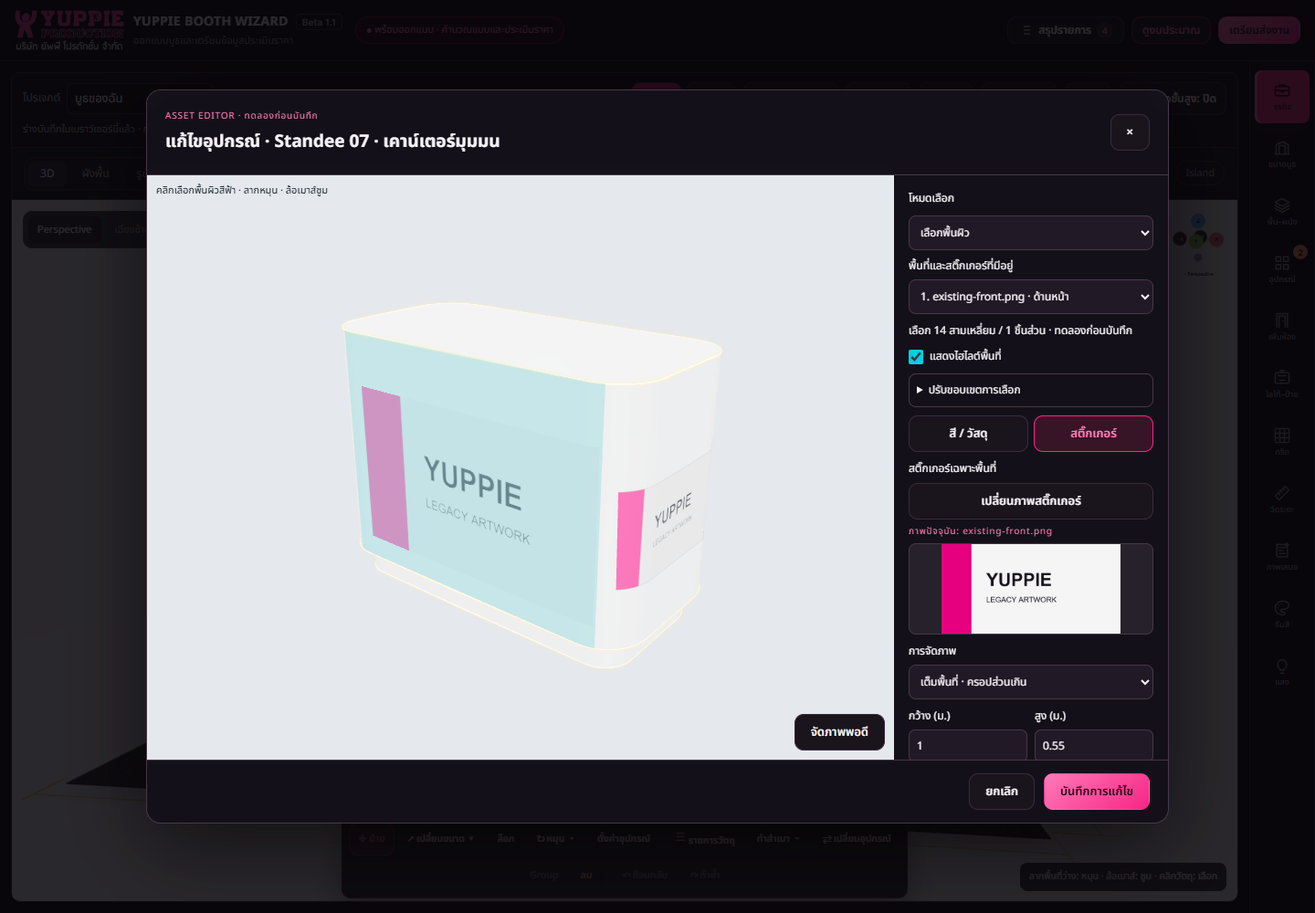
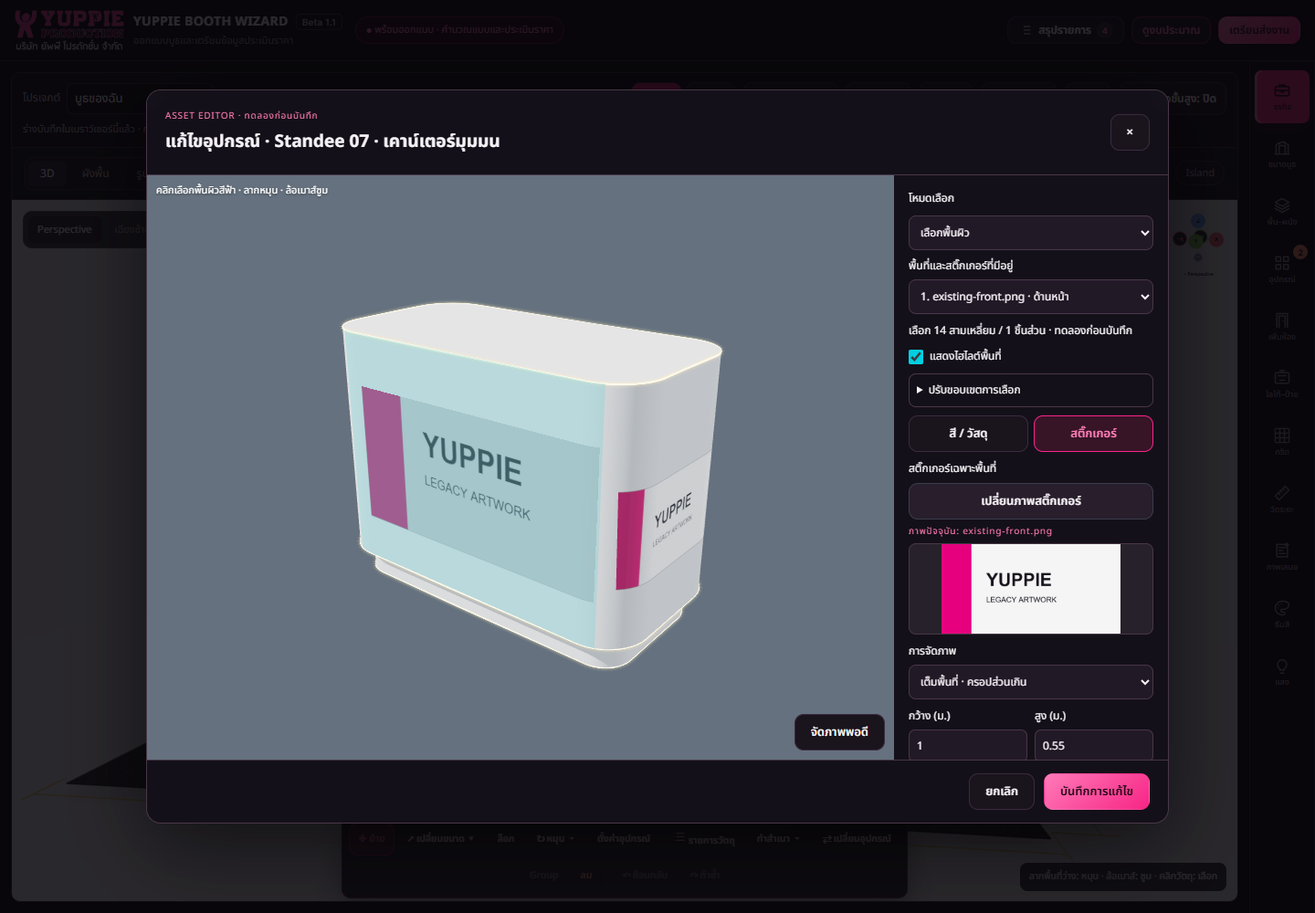
แก้บั๊ก สติ๊กเกอร์เคานืเตอร์

diff --git a/public/yp-web-ai/js/asset-surfaces.js b/public/yp-web-ai/js/asset-surfaces.js
@@ -94,7 +94,7 @@
  }
  function createEditor({renderer,root,parts,object,dialog,canvas,onMode,onPick,initialSurfaces}){
   const T=renderer.THREE,box=document.createElement('section');box.className='asset-surface-tools';
-  box.innerHTML='<label for="assetPickMode">โหมดเลือก</label><select id="assetPickMode"><option value="part">เลือกชิ้นส่วน</option><option value="surface">เลือกพื้นผิว</option></select><div data-surface-controls hidden><label>ขอบเขตที่เลือก<select id="assetSurfaceRegion"><option value="plane">ผิวราบที่ต่อกัน</option><option value="smooth">ผิวโค้งต่อเนื่อง · หยุดที่มุมหัก</option><option value="triangle">สามเหลี่ยมเดียว · เก็บรายละเอียด</option></select></label><label><input type="checkbox" id="assetSurfaceAdd"> เพิ่ม / ถอนพื้นที่จากที่เลือก</label><p data-surface-info role="status">คลิกพื้นผิวบนภาพ 3D · สีฟ้าคือพื้นที่ที่เลือก</p><button class="btn sm" data-surface-clear type="button">ล้างการเลือก</button><label>สีเฉพาะพื้นที่<select id="assetSurfaceMode"><option value="inherit">ตามชิ้นส่วนเดิม</option><option value="original">วัสดุต้นฉบับ</option><option value="solid">สีล้วน</option><option value="tint">ย้อมสี</option></select></label><input id="assetPatchColor" type="color" value="#ffffff" aria-label="สีพื้นที่ที่เลือก"><label>วัสดุเฉพาะพื้นที่<select id="assetSurfaceFinish"><option value="original">ตามวัสดุเดิม</option><option value="matte">ผิวด้าน</option><option value="gloss">ผิวมัน</option><option value="metal">โลหะ</option></select></label><label>สติ๊กเกอร์เฉพาะพื้นที่<input type="file" id="assetSurfaceImage" accept="image/png,image/jpeg,image/webp"></label><label>การจัดภาพ<select id="assetSurfaceFit"><option value="single">เต็มภาพ · ไม่ตัดภาพ</option><option value="cover">เต็มพื้นที่ · ครอปส่วนเกิน</option><option value="repeat">ลายซ้ำ</option></select></label><div class="surface-number-grid">'+[['w','กว้าง (ม.)'],['h','สูง (ม.)'],['offsetX','เลื่อนแนวนอน (ม.)'],['offsetY','เลื่อนแนวตั้ง (ม.)'],['patternSize','ขนาดลายซ้ำ (ม.)']].map(([k,label])=>'<label>'+label+'<input type="number" data-surface-number="'+k+'" step="0.01" placeholder="อัตโนมัติ" min="'+(k.startsWith('offset')?'-30':'0.01')+'" max="30"></label>').join('')+'</div><button type="button" class="btn sm" data-surface-rotate>หมุนภาพ 90°</button><button type="button" class="btn sm" data-surface-remove-image>ลบภาพเฉพาะพื้นที่</button><button type="button" class="btn sm" data-surface-reset>คืนการตั้งค่าพื้นที่ที่เลือก</button><label><input type="checkbox" data-surface-highlight checked> แสดงไฮไลต์พื้นที่</label><p class="note">ทดลองก่อนบันทึก · ผิวโค้งใช้การฉายภาพ อาจยืดบริเวณโค้ง · ไม่แก้ไฟล์ต้นฉบับ</p></div>';
+  box.innerHTML='<label for="assetPickMode">โหมดเลือก</label><select id="assetPickMode"><option value="part">เลือกชิ้นส่วน</option><option value="surface">เลือกพื้นผิว</option></select><div data-surface-controls hidden><label>ขอบเขตที่เลือก<select id="assetSurfaceRegion"><option value="plane">ผิวราบที่ต่อกัน</option><option value="smooth">ผิวโค้งต่อเนื่อง · หยุดที่มุมหัก</option><option value="triangle">สามเหลี่ยมเดียว · เก็บรายละเอียด</option></select></label><label><input type="checkbox" id="assetSurfaceAdd"> เพิ่ม / ถอนพื้นที่จากที่เลือก</label><p data-surface-info role="status">คลิกพื้นผิวบนภาพ 3D · สีฟ้าคือพื้นที่ที่เลือก</p><button class="btn sm" data-surface-clear type="button">ล้างการเลือก</button><label>สีเฉพาะพื้นที่<select id="assetSurfaceMode"><option value="inherit">ตามชิ้นส่วนเดิม</option><option value="original">วัสดุต้นฉบับ</option><option value="solid">สีล้วน</option><option value="tint">ย้อมสี</option></select></label><input id="assetPatchColor" type="color" value="#ffffff" aria-label="สีพื้นที่ที่เลือก"><label>วัสดุเฉพาะพื้นที่<select id="assetSurfaceFinish"><option value="original">ตามวัสดุเดิม</option><option value="matte">ผิวด้าน</option><option value="gloss">ผิวมัน</option><option value="metal">โลหะ</option></select></label><label>สติ๊กเกอร์เฉพาะพื้นที่<input type="file" id="assetSurfaceImage" accept="image/png,image/jpeg,image/webp"></label><label>การจัดภาพ<select id="assetSurfaceFit"><option value="single">เต็มภาพ · ไม่ตัดภาพ</option><option value="cover">เต็มพื้นที่ · ครอปส่วนเกิน</option><option value="repeat">ลายซ้ำ</option></select></label><div class="surface-number-grid">'+[['w','กว้าง (ม.)'],['h','สูง (ม.)'],['offsetX','แนวนอน − ซ้าย / + ขวา (ม.)'],['offsetY','แนวตั้ง − ลง / + ขึ้น (ม.)'],['patternSize','ขนาดลายซ้ำ (ม.)']].map(([k,label])=>'<label>'+label+'<input type="number" data-surface-number="'+k+'" step="0.01" placeholder="อัตโนมัติ" min="'+(k.startsWith('offset')?'-30':'0.01')+'" max="30"></label>').join('')+'</div><button type="button" class="btn sm" data-surface-rotate>หมุนภาพ 90°</button><button type="button" class="btn sm" data-surface-remove-image>ลบภาพเฉพาะพื้นที่</button><button type="button" class="btn sm" data-surface-reset>คืนการตั้งค่าพื้นที่ที่เลือก</button><label><input type="checkbox" data-surface-highlight checked> แสดงไฮไลต์พื้นที่</label><p class="note">ทดลองก่อนบันทึก · ผิวโค้งใช้การฉายภาพ อาจยืดบริเวณโค้ง · ไม่แก้ไฟล์ต้นฉบับ</p></div>';
   dialog.querySelector('[data-part-info]').before(box);const $=s=>box.querySelector(s),info=$('[data-surface-info]'),selection=new Map();let draft=sanitize(initialSurfaces||object.appearance.surfaces),highlights=[],alive=true,pending=false,activePatch=-1,activeBatch=[];
   const controls=$('[data-surface-controls]'),pick=$('#assetPickMode'),imageName=document.createElement('small');$('#assetSurfaceImage').after(imageName);
   const editing=()=>pick.value==='surface',imageSettings=()=>({...global.YPAssetFaceStickers.clean(settings.sticker||{}),...(settings.sticker?.projectionFace?{projectionFace:settings.sticker.projectionFace}:{})});let settings={mode:'inherit',color:'#ffffff',finish:'original'};
@@ -113,7 +113,7 @@
   function showSelection(){removeHighlights();let count=0;for(const [key,ids] of selection){count+=ids.size;if(!$('[data-surface-highlight]').checked||!editing())continue;const e=parts.find(p=>p.key===key),g=subset(T,e,[...ids]);if(!g)continue;const m=new T.Mesh(g,new T.MeshBasicMaterial({color:0x00cfe0,transparent:true,opacity:.3,side:T.DoubleSide,depthWrite:false,polygonOffset:true,polygonOffsetFactor:-6,polygonOffsetUnits:-6}));m.userData.systemHelper=true;m.raycast=()=>{};m.renderOrder=8;e.node.add(m);highlights.push(m);}info.textContent=count?'เลือก '+count+' สามเหลี่ยม / '+selection.size+' ชิ้นส่วน · ทดลองก่อนบันทึก':'คลิกพื้นผิวบนภาพ 3D · สีฟ้าคือพื้นที่ที่เลือก';
    pick.disabled=pending;controls.querySelectorAll('select,input,button').forEach(el=>{if(['assetSurfaceRegion','assetSurfaceAdd','assetSavedSurfaces'].includes(el.id)||el.hasAttribute('data-surface-clear')||el.hasAttribute('data-surface-highlight')||el.hasAttribute('data-surface-tab')){el.disabled=pending;return;}el.disabled=!count||pending;});
   }
-  function syncFields(){savedList.replaceChildren(new Option('คลิกบนอุปกรณ์ หรือเลือกพื้นที่ที่บันทึกไว้',''));draft.forEach((p,i)=>savedList.add(new Option((i+1)+'. '+(p.sticker?.name||'สี / วัสดุ')+(p.sticker?.projectionFace?' · ด้าน'+global.YPAssetFaceStickers.faces[p.sticker.projectionFace].label:''),String(i))));savedList.value=activePatch>=0?String(activePatch):'';$('#assetSurfaceMode').value=settings.mode;$('#assetPatchColor').value=settings.color;$('#assetSurfaceFinish').value=settings.finish;const s=imageSettings();uploadButton.textContent=s.data?'เปลี่ยนภาพสติ๊กเกอร์':'อัปโหลดภาพสติ๊กเกอร์';preview.hidden=!s.data;if(s.data)preview.src=s.data;else preview.removeAttribute('src');imageName.textContent=s.data?'ภาพปัจจุบัน: '+(s.name||'สติ๊กเกอร์'):'พื้นที่นี้ยังไม่มีสติ๊กเกอร์';$('#assetSurfaceFit').value=s.mode;box.querySelectorAll('[data-surface-number]').forEach(el=>{el.value=s[el.dataset.surfaceNumber]??'';if(el.dataset.surfaceNumber==='patternSize')el.parentElement.hidden=s.mode!=='repeat';});showSelection();}
+  function syncFields(){savedList.replaceChildren(new Option('คลิกบนอุปกรณ์ หรือเลือกพื้นที่ที่บันทึกไว้',''));draft.forEach((p,i)=>savedList.add(new Option((i+1)+'. '+(p.sticker?.name||'สี / วัสดุ')+(p.sticker?.projectionFace?' · ด้าน'+global.YPAssetFaceStickers.faces[p.sticker.projectionFace].label:''),String(i))));savedList.value=activePatch>=0?String(activePatch):'';$('#assetSurfaceMode').value=settings.mode;$('#assetPatchColor').value=settings.color;$('#assetSurfaceFinish').value=settings.finish;const s=imageSettings();uploadButton.textContent=s.data?'เปลี่ยนภาพสติ๊กเกอร์':'อัปโหลดภาพสติ๊กเกอร์';preview.hidden=!s.data;if(s.data)preview.src=s.data;else preview.removeAttribute('src');imageName.textContent=s.data?'ภาพปัจจุบัน: '+(s.name||'สติ๊กเกอร์'):'พื้นที่นี้ยังไม่มีสติ๊กเกอร์';$('#assetSurfaceFit').value=s.mode;box.querySelectorAll('[data-surface-number]').forEach(el=>{el.value=global.YPAssetFaceStickers.uiOffset(el.dataset.surfaceNumber,s[el.dataset.surfaceNumber])??'';if(el.dataset.surfaceNumber==='patternSize')el.parentElement.hidden=s.mode!=='repeat';});showSelection();}
   function refresh(){removeHighlights();apply(renderer,root,parts,draft);showSelection();}
   function commitSelection(reset=false){
    if(!selection.size)return;if(activeBatch.length){if(reset){for(const index of [...activeBatch].sort((a,b)=>b-a))draft.splice(index,1);activePatch=-1;activeBatch=[];}else for(const index of activeBatch){const current=draft[index];draft[index]={...structuredClone(settings),key:current.key,triangles:current.triangles};}}
@@ -121,7 +121,7 @@
   }
   pick.onchange=()=>{controls.hidden=!editing();onMode(editing(),pick.value);canvas.style.cursor=editing()?global.YPAssetGlowPath.selectionCursor:'';showSelection();};
   $('#assetSurfaceMode').onchange=e=>{settings.mode=e.target.value;commitSelection();};$('#assetPatchColor').oninput=e=>{settings.color=e.target.value;if(['inherit','original'].includes(settings.mode))settings.mode='solid';commitSelection();};$('#assetSurfaceFinish').onchange=e=>{settings.finish=e.target.value;commitSelection();};
-  $('#assetSurfaceFit').onchange=e=>{settings.sticker={...imageSettings(),mode:e.target.value};commitSelection();};box.querySelectorAll('[data-surface-number]').forEach(el=>el.onchange=()=>{settings.sticker={...imageSettings(),[el.dataset.surfaceNumber]:el.value===''?null:Number(el.value)};commitSelection();});
+  $('#assetSurfaceFit').onchange=e=>{settings.sticker={...imageSettings(),mode:e.target.value};commitSelection();};box.querySelectorAll('[data-surface-number]').forEach(el=>el.onchange=()=>{settings.sticker={...imageSettings(),[el.dataset.surfaceNumber]:el.value===''?null:global.YPAssetFaceStickers.uiOffset(el.dataset.surfaceNumber,Number(el.value))};commitSelection();});
   $('[data-surface-rotate]').onclick=()=>{const s=imageSettings();settings.sticker={...s,rotation:(s.rotation+90)%360};commitSelection();};
   $('[data-surface-remove-image]').onclick=()=>{delete settings.sticker;commitSelection();};$('[data-surface-reset]').onclick=()=>{settings={mode:'inherit',color:'#ffffff',finish:'original'};commitSelection(true);};
   $('[data-surface-clear]').onclick=()=>{selection.clear();activePatch=-1;activeBatch=[];syncFields();};$('[data-surface-highlight]').onchange=showSelection;

diff --git a/public/yp-web-ai/index.html b/public/yp-web-ai/index.html
@@ -1794,10 +1794,10 @@ select:focus{border-color:var(--acc)}
 <link rel="stylesheet" href="css/asset-parts.css?v=20260918-studio-2">
 <script src="js/asset-edge-glow.js?v=20260918-path-3"></script>
 <script src="js/asset-glow-path.js?v=20260918-red-cursor-2"></script>
-<script src="js/asset-surfaces.js?v=20260918-unified-1"></script>
+<script src="js/asset-surfaces.js?v=20260918-offset-up-1"></script>
 <script src="js/asset-parts.js?v=20260918-studio-2"></script>
 <script src="js/asset-surface-repair.js?v=20260918-1"></script>
-<script src="js/asset-face-stickers.js?v=20260918-surfaces-1"></script>
+<script src="js/asset-face-stickers.js?v=20260918-offset-up-1"></script>
 <script src="js/my-asset-preview.js?v=20260918-surface1"></script>
 <script src="js/quick-setup.js?v=20260911-business"></script>
 <script src="js/business-brief.js?v=20260911-1"></script>
@@ -4795,7 +4795,7 @@ function boothGeometryPrompt(){
     const widthM=Math.min(wallFaceLength(S,face),Math.max(.1,promptSafeNumber(sticker.w))),heightM=Math.min(height,Math.max(.1,promptSafeNumber(sticker.h)));
     const horizontal=face==='back'?'กึ่งกลางแนวผนัง/แกน X':'กึ่งกลางแนวลึก/แกน Z';
     const display=sticker.mode==='repeat'?'ต่อลายโดยรักษาสัดส่วนเดิม · ขนาดลาย '+promptNumber(sticker.patternSize)+' ม.':sticker.mode==='cover'?'เต็มพื้นที่แบบรักษาสัดส่วนและตัดส่วนเกิน':'ภาพเดียวแบบรักษาสัดส่วน';
-    return'- สติ๊กเกอร์'+name+' ชื่อ '+(sticker.name||'ไฟล์กราฟิก')+': ขนาด '+promptNumber(widthM)+' × '+promptNumber(heightM)+' ม. · '+display+' · เลื่อนแนวนอน '+promptNumber(sticker.offsetX)+' ม. / แนวตั้ง '+promptNumber(sticker.offsetY)+' ม. · หมุนภาพ '+Number(sticker.rotation||0)+'° · วาง'+horizontal+'และกึ่งกลางแนวสูง Y · '+(face==='back'&&curve?'แนบโค้งตามผนัง R โดยรักษาความยาวภาพตามแนวโค้ง':'แนบระนาบเดียวกับผิวผนัง')+' · ห้ามบิดหรือยืดสัดส่วนภาพ และห้ามย้ายกรอบพื้นที่ติด';
+    return'- สติ๊กเกอร์'+name+' ชื่อ '+(sticker.name||'ไฟล์กราฟิก')+': ขนาด '+promptNumber(widthM)+' × '+promptNumber(heightM)+' ม. · '+display+' · เลื่อนแนวนอน '+promptNumber(sticker.offsetX)+' ม. / แนวตั้ง '+promptNumber(-Number(sticker.offsetY||0))+' ม. · หมุนภาพ '+Number(sticker.rotation||0)+'° · วาง'+horizontal+'และกึ่งกลางแนวสูง Y · '+(face==='back'&&curve?'แนบโค้งตามผนัง R โดยรักษาความยาวภาพตามแนวโค้ง':'แนบระนาบเดียวกับผิวผนัง')+' · ห้ามบิดหรือยืดสัดส่วนภาพ และห้ามย้ายกรอบพื้นที่ติด';
   });
   const floorLabel=(()=>{try{return floorName();}catch(e){return S.floor||'พื้นตามแบบ';}})();
   const activeCarpetUpload=activeCarpetTexture(S);
@@ -5880,11 +5880,12 @@ function appendStickerDisplayControls(card,values,commit,limits={}){
   const modes=el('div','sticker-mode-grid');STICKER_MODES.forEach(mode=>{const button=el('button','btn sm'+(values.mode===mode.k?' on':''),mode.n);button.type='button';
     button.onclick=()=>{commit('mode',mode.k,true);sync();};modes.appendChild(button);});card.appendChild(modes);
   const controls=el('div','floor-sticker-size'),maxX=Math.max(.1,Number(limits.x)||1),maxY=Math.max(.1,Number(limits.y)||1);
-  const live=(key,value)=>{commit(key,Number(value),true);if(threeRenderer)threeRenderer.currentKey='';render();updatePromptPreview();};
+  const storedValue=(key,value)=>key==='offsetY'&&limits.yUp?-(Number(value)||0):Number(value);
+  const live=(key,value)=>{commit(key,storedValue(key,value),true);if(threeRenderer)threeRenderer.currentKey='';render();updatePromptPreview();};
   const row=(key,label,min,max,step)=>{const wrap=el('div','floor-sticker-control'),lab=el('label',null,label),range=document.createElement('input'),number=document.createElement('input'),resetDefault=key==='patternSize'?1.2:0;
-    range.type='range';range.min=String(min);range.max=String(max);range.step=String(step);range.value=values[key];range.setAttribute('aria-label',label);
-    number.type='number';number.min=String(min);number.max=String(max);number.step=String(step);number.inputMode='decimal';number.value=Number(values[key]).toFixed(2);number.dataset.resetDefault=String(resetDefault);number.setAttribute('aria-label','ค่า'+label);
-    range.oninput=()=>{number.value=Number(range.value).toFixed(2);live(key,range.value);};range.onchange=()=>sync();number.onchange=()=>{commit(key,Number(number.value),true);sync();};
+    range.type='range';range.min=String(min);range.max=String(max);range.step=String(step);range.value=storedValue(key,values[key]);range.setAttribute('aria-label',label);
+    number.type='number';number.min=String(min);number.max=String(max);number.step=String(step);number.inputMode='decimal';number.value=storedValue(key,values[key]).toFixed(2);number.dataset.resetDefault=String(resetDefault);number.setAttribute('aria-label','ค่า'+label);
+    range.oninput=()=>{number.value=Number(range.value).toFixed(2);live(key,range.value);};range.onchange=()=>sync();number.onchange=()=>{commit(key,storedValue(key,number.value),true);sync();};
     wrap.append(lab,range,number,el('em',null,'ม.'));return wrap;};
   if(values.mode==='repeat')controls.appendChild(row('patternSize','ขนาดลาย',.1,Math.max(maxX,maxY)*2,.05));
   controls.append(row('offsetX',limits.xLabel||'เลื่อนแนวนอน',-maxX/2,maxX/2,.05),row('offsetY',limits.yLabel||'เลื่อนแนวตั้ง',-maxY/2,maxY/2,.05));
@@ -6051,7 +6052,7 @@ function buildWallStickerSettings(){
       sizeBox.append(makeControl('w','ความยาว',wallFaceLength(S,face)),makeControl('h','ความสูง',S.H));card.appendChild(sizeBox);
       appendStickerDisplayControls(card,{mode:sticker.mode,patternSize:sticker.patternSize,offsetX:sticker.offsetX,offsetY:sticker.offsetY},
         (key,value,touch)=>{const target=wallStickerFor(face);target[key]=value;if(touch)target.id=(target.id||0)+1;},
-        {x:sticker.w,y:sticker.h,xLabel:'เลื่อนแนวนอน',yLabel:'เลื่อนแนวตั้ง'});
+        {x:sticker.w,y:sticker.h,yUp:true,xLabel:'แนวนอน − ซ้าย / + ขวา',yLabel:'แนวตั้ง − ลง / + ขึ้น'});
       card.appendChild(el('div','lbl','หมุนภาพ'));
       const rotate=el('div','floor-sticker-rotate');[0,90,180,270].forEach(degree=>{const button=el('button','btn sm'+(Number(sticker.rotation||0)===degree?' on':''),degree+'°');button.type='button';
         button.onclick=()=>{setWallStickerRotation(face,degree);wallStickerFor(face).id++;sync();};rotate.appendChild(button);});card.appendChild(rotate);

diff --git a/public/yp-web-ai/js/asset-face-stickers.js b/public/yp-web-ai/js/asset-face-stickers.js
@@ -52,12 +52,14 @@
    const overlay=new T.Mesh(built.geometry,material);overlay.name='asset-face-sticker-'+face;overlay.userData={objectId:obj.id,systemHelper:true,assetFaceSticker:true,stickerFace:face};overlay.castShadow=false;overlay.receiveShadow=true;overlay.renderOrder=2;root.add(overlay);
   }
  }
+ // Saved offsets retain canvas coordinates (+Y down); convert only at UI boundaries.
+ function uiOffset(key,value){return key==='offsetY'?-(Number(value)||0):value;}
  let activeFace='front',activeObjectId=null;
  function init(){
   const host=document.getElementById('assetFaceStickerControls');if(!host)return;
-  host.innerHTML='<label class="asset-field">ด้านที่ติดสติ๊กเกอร์<select id="assetStickerFace">'+Object.entries(faces).map(([key,f])=>'<option value="'+key+'">'+f.label+'</option>').join('')+'</select></label><div class="note">ด้านอ้างอิงตามตัวอุปกรณ์ · ภาพและการตั้งค่าแยกกันแต่ละด้าน</div><div id="assetStickerTransform"><label class="asset-field">การจัดภาพ<select data-face-setting="mode"><option value="single">เต็มภาพ · ไม่ตัดภาพ</option><option value="cover">เต็มพื้นที่ · ครอปส่วนเกิน</option><option value="repeat">ลายซ้ำ</option></select></label><div class="asset-sticker-grid">'+[['w','กว้างภาพ (ม.)'],['h','สูงภาพ (ม.)'],['offsetX','เลื่อนซ้าย–ขวา (ม.)'],['offsetY','เลื่อนขึ้น–ลง (ม.)'],['patternSize','ขนาดลายซ้ำ (ม.)']].map(([key,label])=>'<label class="asset-field">'+label+'<input type="number" step="0.01" min="'+(key.startsWith('offset')?'-30':'0.01')+'" max="30" data-face-setting="'+key+'"></label>').join('')+'</div><div class="asset-settings-actions"><button type="button" class="btn sm" id="assetStickerRotate">หมุน 90°</button><button type="button" class="btn sm" id="assetStickerResetPlacement">คืนตำแหน่งภาพ</button></div></div>';
+  host.innerHTML='<label class="asset-field">ด้านที่ติดสติ๊กเกอร์<select id="assetStickerFace">'+Object.entries(faces).map(([key,f])=>'<option value="'+key+'">'+f.label+'</option>').join('')+'</select></label><div class="note">ด้านอ้างอิงตามตัวอุปกรณ์ · ภาพและการตั้งค่าแยกกันแต่ละด้าน</div><div id="assetStickerTransform"><label class="asset-field">การจัดภาพ<select data-face-setting="mode"><option value="single">เต็มภาพ · ไม่ตัดภาพ</option><option value="cover">เต็มพื้นที่ · ครอปส่วนเกิน</option><option value="repeat">ลายซ้ำ</option></select></label><div class="asset-sticker-grid">'+[['w','กว้างภาพ (ม.)'],['h','สูงภาพ (ม.)'],['offsetX','แนวนอน − ซ้าย / + ขวา (ม.)'],['offsetY','แนวตั้ง − ลง / + ขึ้น (ม.)'],['patternSize','ขนาดลายซ้ำ (ม.)']].map(([key,label])=>'<label class="asset-field">'+label+'<input type="number" step="0.01" min="'+(key.startsWith('offset')?'-30':'0.01')+'" max="30" data-face-setting="'+key+'"></label>').join('')+'</div><div class="asset-settings-actions"><button type="button" class="btn sm" id="assetStickerRotate">หมุน 90°</button><button type="button" class="btn sm" id="assetStickerResetPlacement">คืนตำแหน่งภาพ</button></div></div>';
   document.getElementById('assetStickerFace').onchange=e=>{activeFace=e.target.value;syncAssetSettingsForm();};
-  host.querySelectorAll('[data-face-setting]').forEach(input=>input.onchange=()=>change({[input.dataset.faceSetting]:input.value}));
+  host.querySelectorAll('[data-face-setting]').forEach(input=>input.onchange=()=>change({[input.dataset.faceSetting]:uiOffset(input.dataset.faceSetting,input.value)}));
   document.getElementById('assetStickerRotate').onclick=()=>{const obj=objectById(objectEditor.selectedId);change({rotation:((obj?.appearance?.stickers?.[activeFace]?.rotation||0)+90)%360});};
   document.getElementById('assetStickerResetPlacement').onclick=()=>change({w:null,h:null,offsetX:0,offsetY:0,rotation:0,mode:'single',patternSize:1});
  }
@@ -67,7 +69,7 @@
   host.hidden=!supported(obj);if(!supported(obj))return;normalize(obj);if(activeObjectId!==obj.id){activeObjectId=obj.id;activeFace='front';}
   const settings=clean(obj.appearance.stickers[activeFace]),f=faces[activeFace],locked=objectLocked(obj);
   document.getElementById('assetStickerFace').value=activeFace;
-  host.querySelectorAll('[data-face-setting]').forEach(input=>{const key=input.dataset.faceSetting;input.value=settings[key]??obj.size[key==='w'?f.w:f.h];input.disabled=locked||!settings.data;if(key==='patternSize')input.parentElement.hidden=settings.mode!=='repeat';});
+  host.querySelectorAll('[data-face-setting]').forEach(input=>{const key=input.dataset.faceSetting;input.value=uiOffset(key,settings[key])??obj.size[key==='w'?f.w:f.h];input.disabled=locked||!settings.data;if(key==='patternSize')input.parentElement.hidden=settings.mode!=='repeat';});
   document.getElementById('assetStickerTransform').hidden=!settings.data;
   ['assetStickerRotate','assetStickerResetPlacement'].forEach(id=>document.getElementById(id).disabled=locked);
   const preview=document.getElementById('assetStickerPreview');preview.src=settings.data||'';preview.classList.toggle('show',!!settings.data);
@@ -76,5 +78,5 @@
  }
  function setImage(obj,face,data,name,id){normalize(obj);obj.appearance.stickers[face]=clean({...obj.appearance.stickers[face],data,name,id});normalize(obj);}
  function remove(obj,all){normalize(obj);if(all)obj.appearance.stickers={};else delete obj.appearance.stickers[activeFace];normalize(obj);}
- global.YPAssetFaceStickers={faces,supported,clean,normalize,has,key,geometry,apply,init,syncForm,change,setImage,remove,currentFace:()=>activeFace};
+ global.YPAssetFaceStickers={uiOffset,faces,supported,clean,normalize,has,key,geometry,apply,init,syncForm,change,setImage,remove,currentFace:()=>activeFace};
 })(globalThis);
